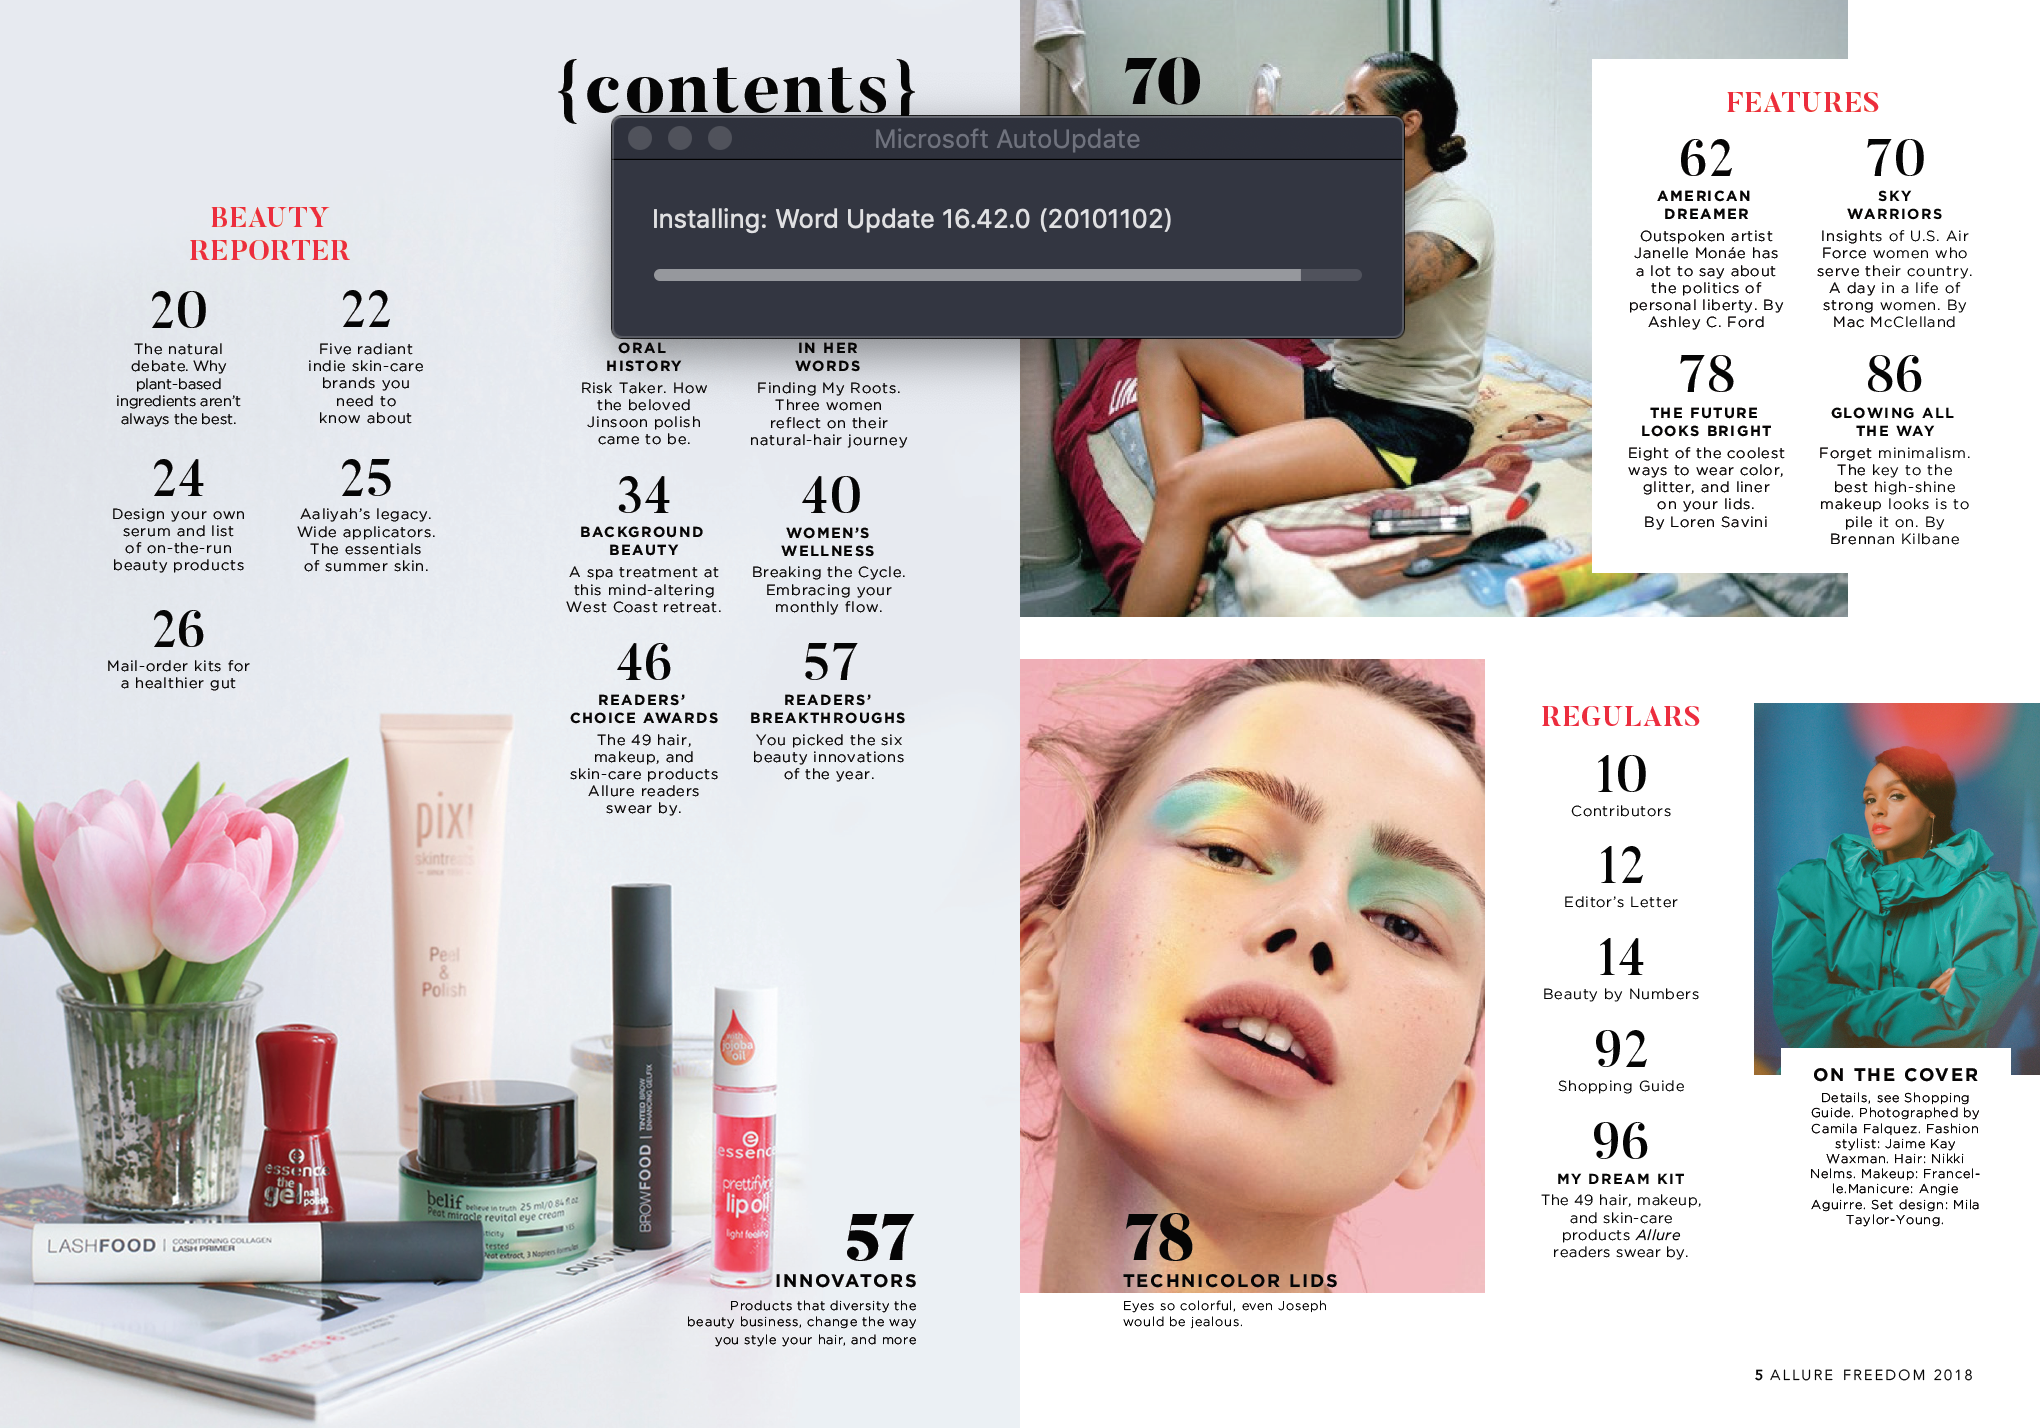
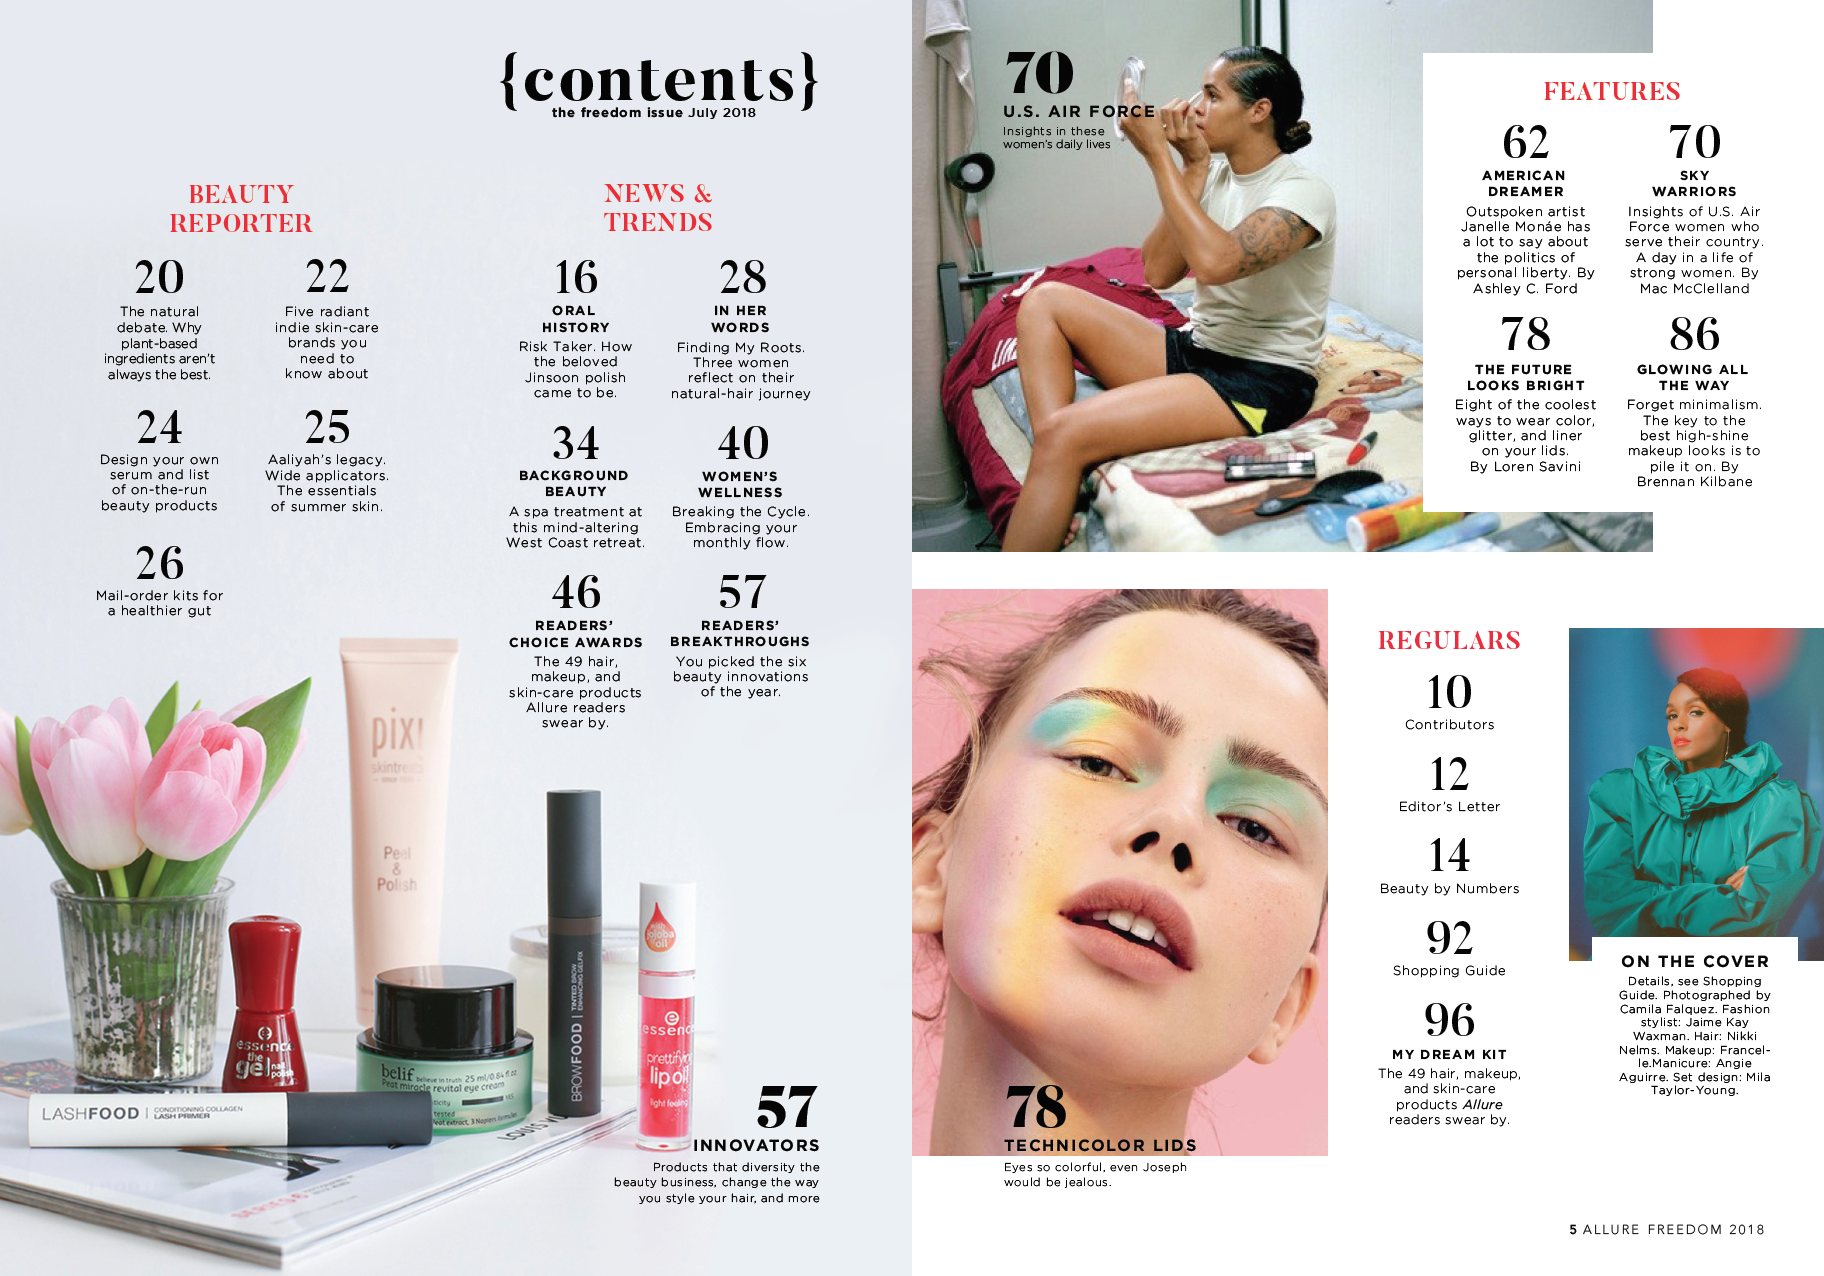
updated images in publishing page

diff --git a/Publishing-Project.html b/Publishing-Project.html
@@ -41,7 +41,7 @@
           <div class="grid-col-1of2">
             <div class="proj-intro">
               <h2 class="proj-type">Objective</h2>
-              <p>To redesign an existing magazine and effectively show the principles of good editorial layout and navigation through each of the components.</p>
+              <p>The project requires to redesign an existing magazine and effectively show the principles of good editorial layout and navigation through chosen components within the magazine.</p>
               <h2 class="proj-type">Role</h2>
               <p>Graphic Designer</p>
             </div>
@@ -75,7 +75,8 @@
         <div class="grid-row">
           <div class="grid-col-1of2">
             <div class="process">
-            <img class="app-static" src="img/login-edit.png" alt="Still shot of the Lighthouse App's login">
+            <img class="mag-img" src="img/mag-redesign.png" alt="Side by side images of the original magazine and the redesign">
+            <figcaption class="caption">Left: Original Magazine Cover // Right: Redesigned Cover</figcaption>
             </div>
           </div>
 
@@ -108,14 +109,14 @@
 
             <div id="framework">
               <figure class="image-figure">
-              <img class="prj-img" src="img/experience-map.jpg" alt="design I created to show user's journey framework">
-              <figcaption class="caption">Journey framework for our user</figcaption>
+              <img class="prj-img" src="img/toc.png" alt="layout of table of contents">
+              <figcaption class="caption">Table of contents</figcaption>
               </figure>
             </div>
             <div id="directions">
               <figure class="image-figure">
-              <img class="prj-img" src="img/process1.png" alt="a design process that contains 3 user interfaces of the various map direction methods that is part of the app">
-              <figcaption class="caption">Interface layout of the different direction options of the app</figcaption>
+              <img class="prj-img" src="img/article.png" alt="front of cover article">
+              <figcaption class="caption">Front-of-cover article</figcaption>
               </figure>
             </div>
           </div>
